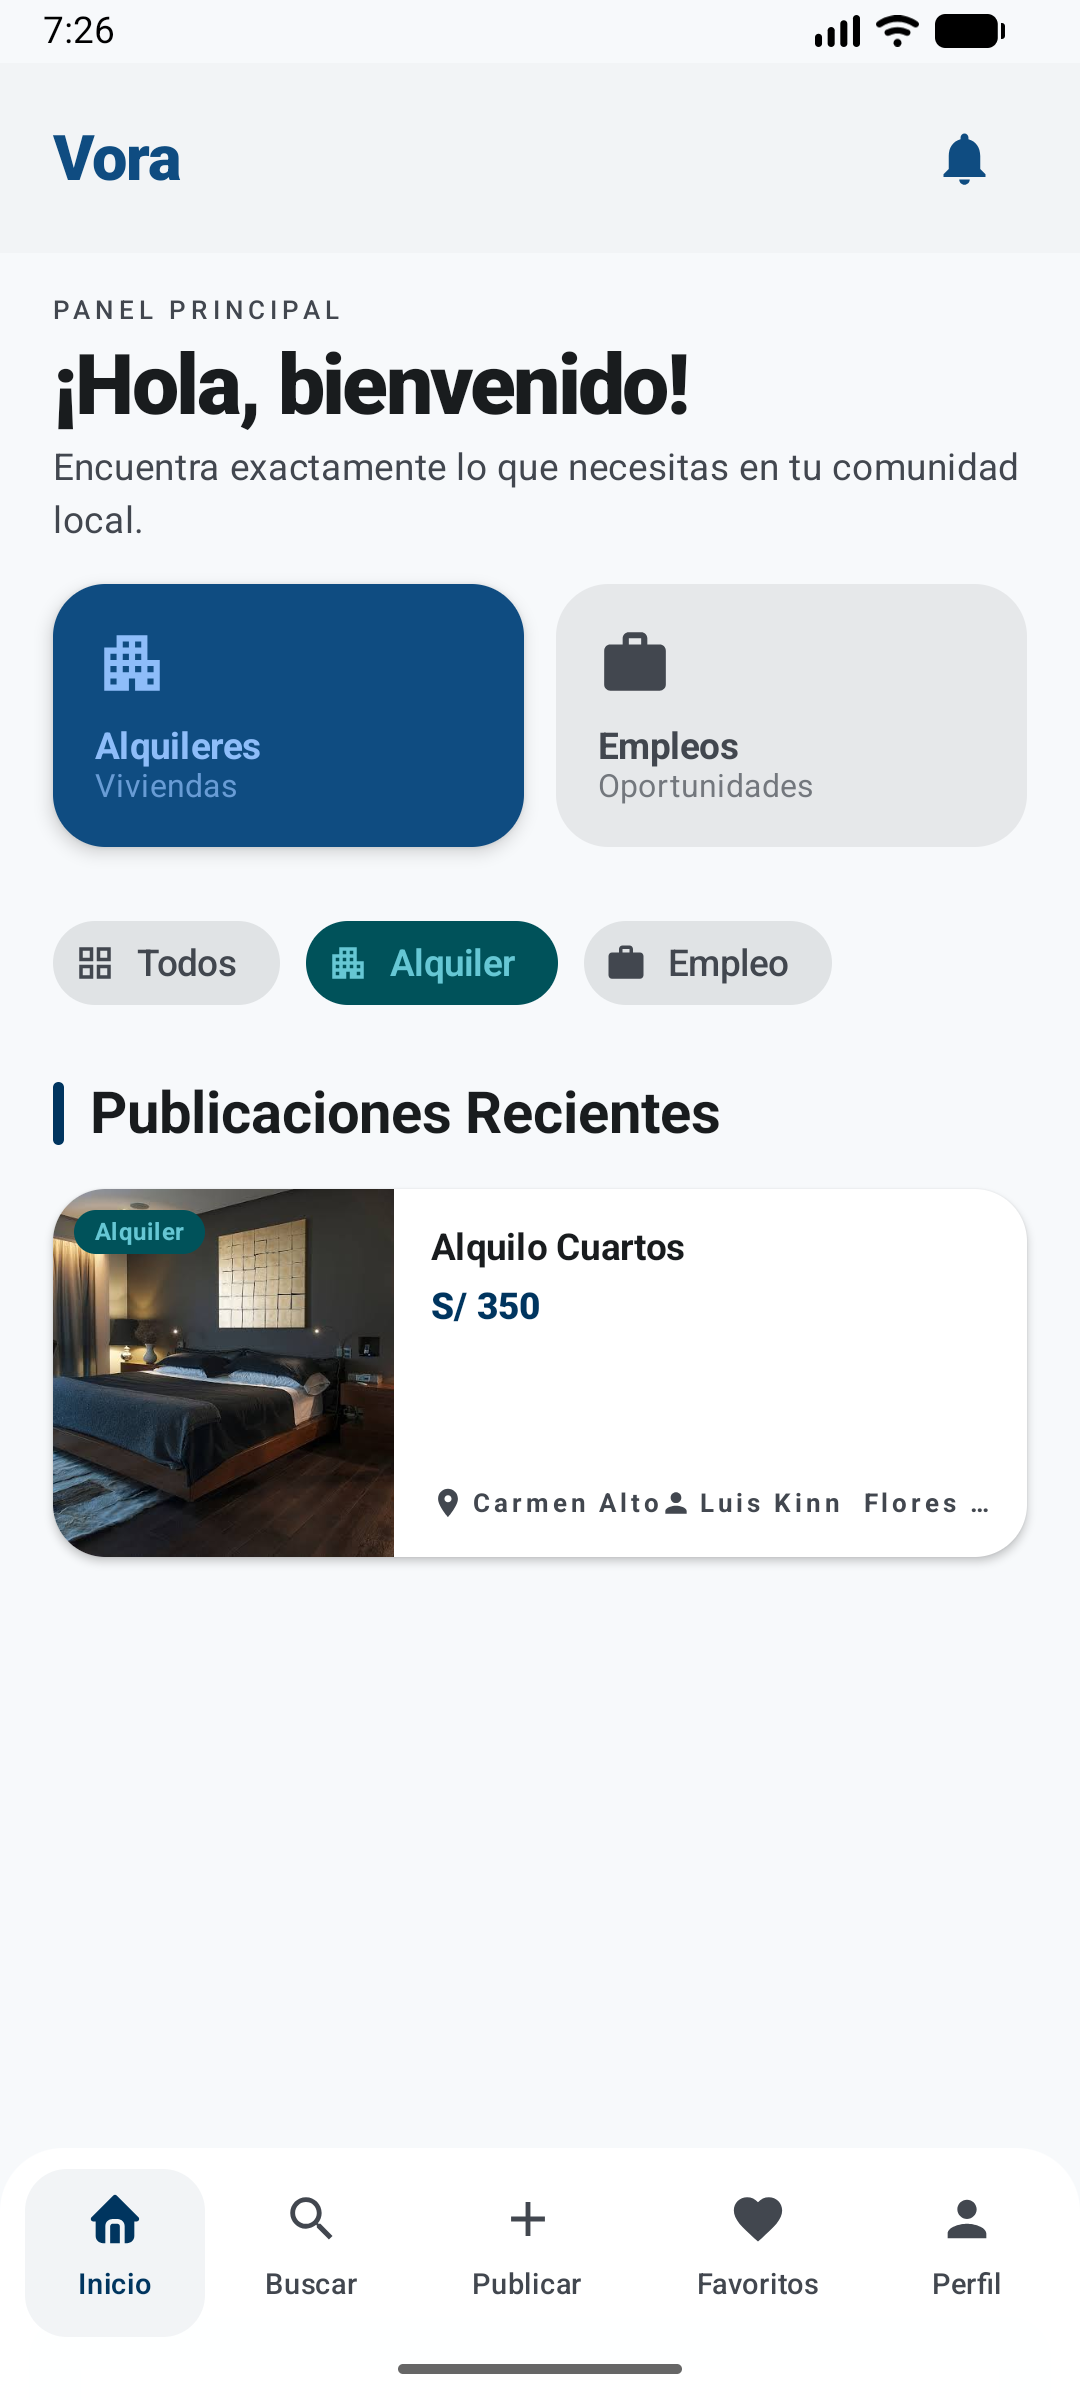
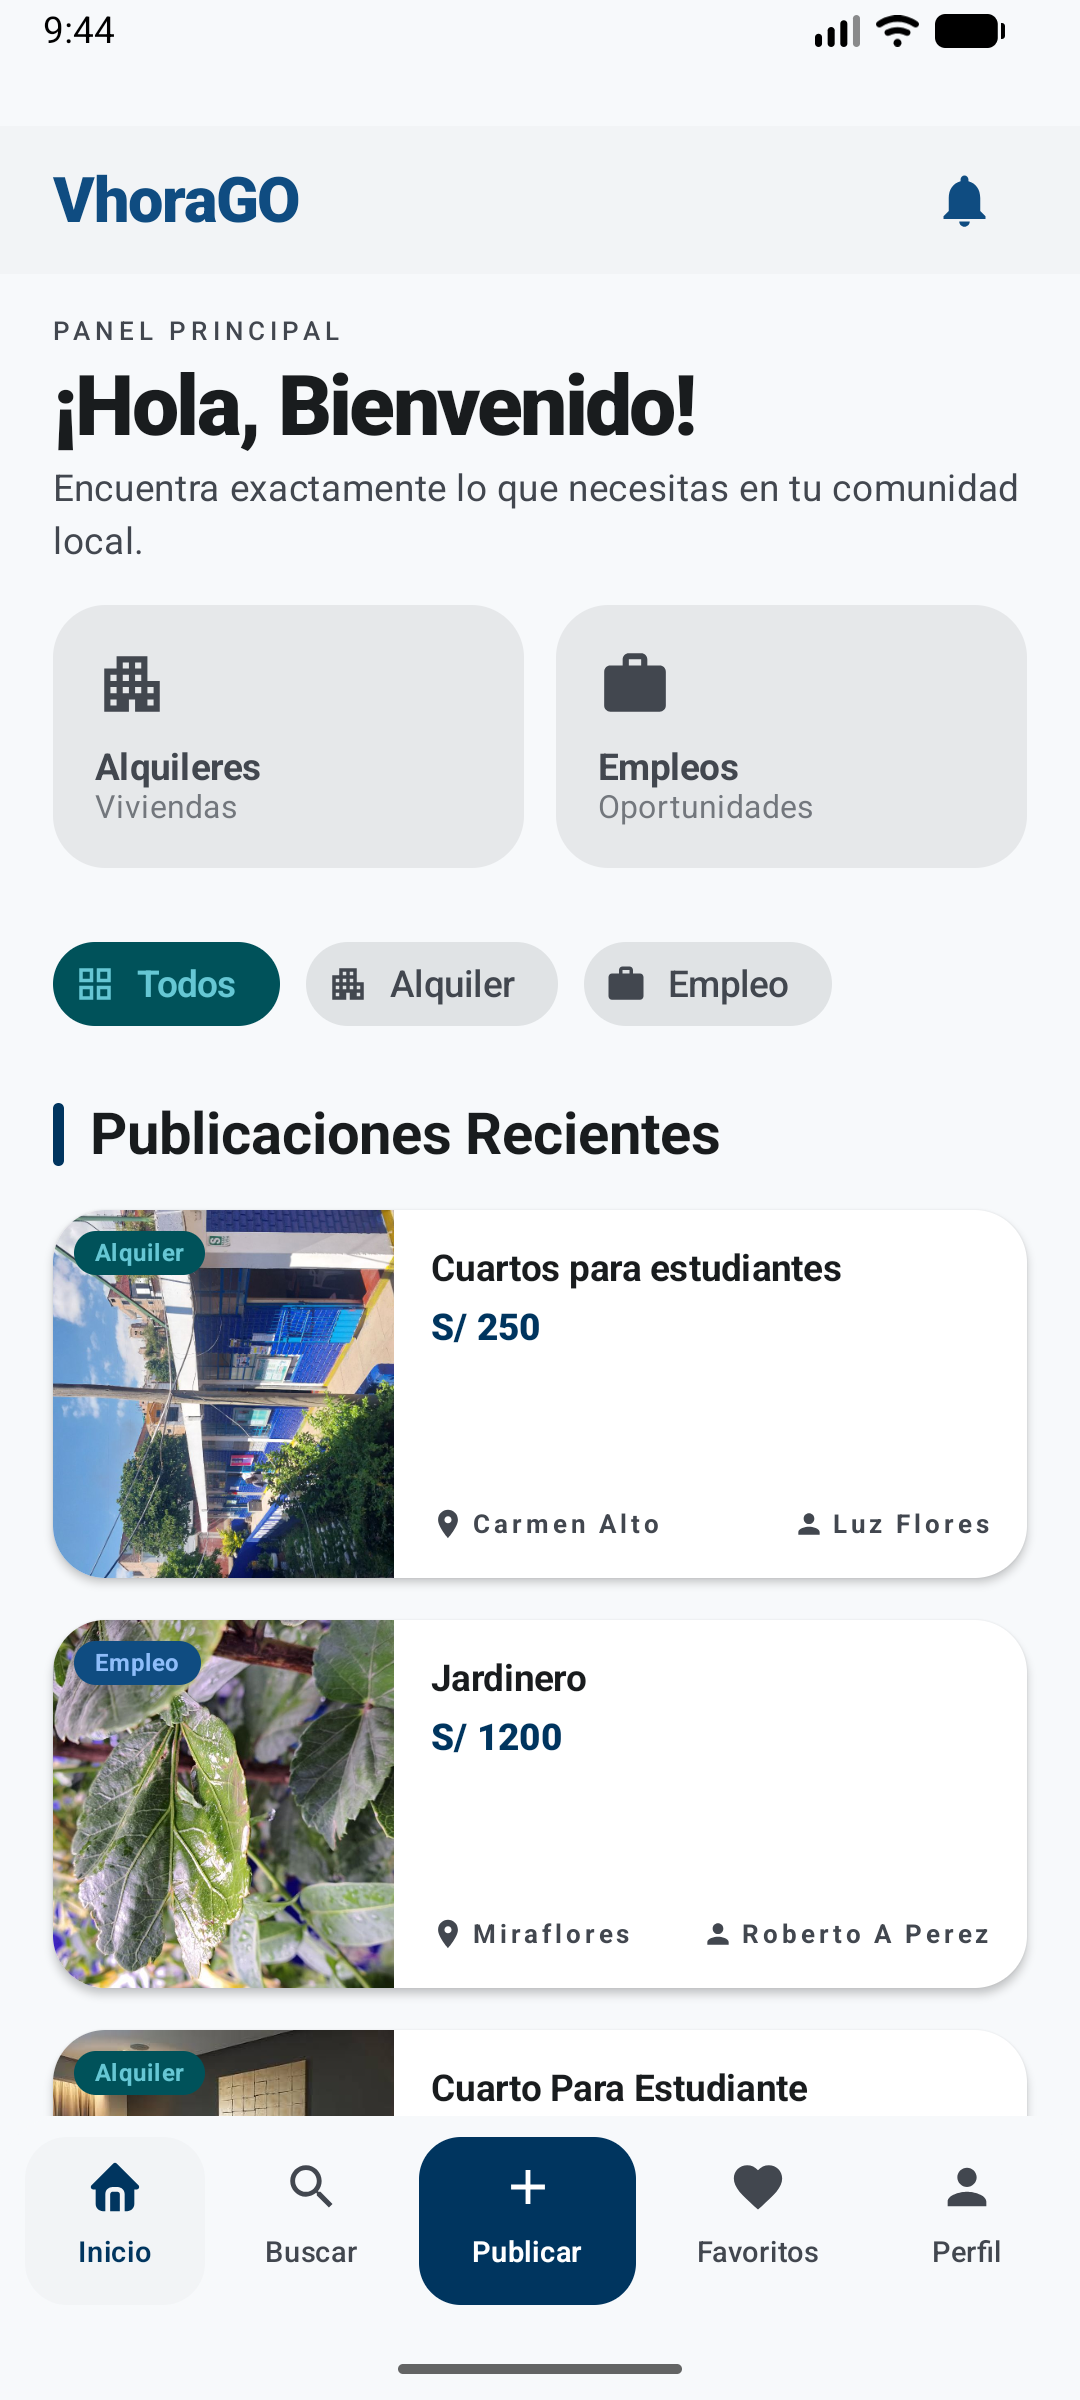
refactor: rename Vora → VhoraGO

diff --git a/src/components/Footer.tsx b/src/components/Footer.tsx
@@ -1,4 +1,4 @@
-import logoVora from '../assets/LogoVora.png';
+import logoVora from '../assets/VhoraGO_Logo.png';
 
 export default function Footer() {
   return (
@@ -7,8 +7,8 @@ export default function Footer() {
         <div className="flex flex-col md:flex-row justify-between items-start md:items-center gap-8 mb-12">
           {/* Logo */}
           <a href="#" className="flex items-center gap-2">
-            <img src={logoVora} alt="Vora" className="w-9 h-9 object-contain" />
-            <span className="font-bold text-xl text-[#0F1A1B]">Vora</span>
+            <img src={logoVora} alt="VhoraGO" className="w-9 h-9 object-contain" />
+            <span className="font-bold text-xl text-[#0F1A1B]">VhoraGO</span>
           </a>
 
           {/* Links */}
@@ -46,7 +46,7 @@ export default function Footer() {
 
         {/* Bottom bar */}
         <div className="flex flex-col md:flex-row justify-between items-center gap-6 pt-8 border-t border-[#D4E0E1] text-sm text-[#708C8E]">
-          <p>© {new Date().getFullYear()} Vora. Todos los derechos reservados.</p>
+          <p>© {new Date().getFullYear()} VhoraGO. Todos los derechos reservados.</p>
           <div className="flex gap-6">
             <a href="#" className="hover:text-[#0F1A1B] transition-colors">
               Política de privacidad

diff --git a/index.html b/index.html
@@ -4,8 +4,8 @@
     <meta charset="UTF-8" />
     <link rel="icon" type="image/svg+xml" href="/favicon.svg" />
     <meta name="viewport" content="width=device-width, initial-scale=1.0" />
-    <title>Vora — Trabajo y vivienda en un solo lugar</title>
-    <meta name="description" content="Vora es la plataforma móvil donde puedes encontrar alquileres accesibles y oportunidades de empleo en tu ciudad. Descárgala gratis." />
+    <title>VhoraGO</title>
+    <meta name="description" content="VhoraGO es la plataforma móvil donde puedes encontrar alquileres accesibles y oportunidades de empleo en tu ciudad. Descárgala gratis." />
     <link rel="preconnect" href="https://fonts.googleapis.com" />
     <link rel="preconnect" href="https://fonts.gstatic.com" crossorigin />
     <link href="https://fonts.googleapis.com/css2?family=Inter:wght@300;400;500;600;700;800&display=swap" rel="stylesheet" />

diff --git a/src/components/Navbar.tsx b/src/components/Navbar.tsx
@@ -1,6 +1,6 @@
 import { useState, useEffect } from 'react';
 import { Menu, X } from 'lucide-react';
-import logoVora from '../assets/LogoVora.png';
+import logoVora from '../assets/VhoraGO_Logo.png';
 import { DOWNLOAD_URL } from '../lib/constants';
 
 export default function Navbar() {
@@ -22,8 +22,8 @@ export default function Navbar() {
       <div className="max-w-7xl mx-auto px-6 lg:px-8 flex items-center justify-between">
         {/* Logo */}
         <a href="#" className="flex items-center gap-2">
-          <img src={logoVora} alt="Vora" className="w-9 h-9 object-contain" />
-          <span className="text-xl font-bold tracking-tight text-[#0F1A1B]">Vora</span>
+          <img src={logoVora} alt="VhoraGO" className="w-9 h-9 object-contain" />
+          <span className="text-xl font-bold tracking-tight text-[#0F1A1B]">VhoraGO</span>
         </a>
 
         {/* Desktop nav */}

diff --git a/src/components/Stats.tsx b/src/components/Stats.tsx
@@ -14,7 +14,7 @@ export default function Stats() {
     <section className="py-10 border-y border-[#D4E0E1] bg-white/50">
       <div className="max-w-7xl mx-auto px-6 lg:px-8">
         <p className="text-center text-sm font-medium text-[#708C8E] mb-8">
-          Miles de personas ya encontraron trabajo o vivienda con Vora
+          Miles de personas ya encontraron trabajo o vivienda con VhoraGO
         </p>
         <div className="flex flex-wrap justify-center gap-12 lg:gap-24">
           {items.map(({ value, label }) => (

diff --git a/src/components/CTA.tsx b/src/components/CTA.tsx
@@ -24,7 +24,7 @@ export default function CTA() {
               ¿Listo para empezar?
             </h2>
             <p className="text-lg md:text-xl text-white/80 mb-10 max-w-xl mx-auto">
-              Descarga Vora y accede a cientos de ofertas de empleo y opciones de alquiler en tu ciudad. Gratis y sin complicaciones.
+              Descarga VhoraGO y accede a cientos de ofertas de empleo y opciones de alquiler en tu ciudad. Gratis y sin complicaciones.
             </p>
             <a
               href={DOWNLOAD_URL}

diff --git a/src/components/Testimonials.tsx b/src/components/Testimonials.tsx
@@ -38,7 +38,7 @@ export default function Testimonials() {
           <h2 className="text-3xl md:text-4xl font-bold text-[#0F1A1B] mb-4">
             Lo que dicen nuestros usuarios
           </h2>
-          <p className="text-lg text-[#708C8E]">Miles de personas ya confían en Vora.</p>
+          <p className="text-lg text-[#708C8E]">Miles de personas ya confían en VhoraGO.</p>
         </motion.div>
 
         <div className="grid md:grid-cols-3 gap-8">

diff --git a/src/components/Features.tsx b/src/components/Features.tsx
@@ -44,7 +44,7 @@ export default function Features() {
             Todo lo que necesitas, en un solo lugar
           </h2>
           <p className="text-lg text-[#708C8E]">
-            Diseñamos Vora para que encontrar trabajo o vivienda sea tan simple como abrir la app.
+            Diseñamos VhoraGO para que encontrar trabajo o vivienda sea tan simple como abrir la app.
           </p>
         </motion.div>
 

diff --git a/src/components/Hero.tsx b/src/components/Hero.tsx
@@ -118,7 +118,7 @@ export default function Hero() {
               <div className="phone-screen">
                 <img
                   src={homeScreen}
-                  alt="Vora App - Pantalla principal"
+                  alt="VhoraGO App - Pantalla principal"
                   className="w-full h-full object-cover object-top"
                 />
               </div>

diff --git a/README.md b/README.md
@@ -1,6 +1,6 @@
-# Vora — Landing Page
+# VhoraGO — Landing Page
 
-Landing page de **Vora**, la plataforma móvil para encontrar alquileres y oportunidades de empleo en tu ciudad.
+Landing page de **VhoraGO**, la plataforma móvil para encontrar alquileres y oportunidades de empleo en tu ciudad.
 
 ## Tecnologías
 
@@ -69,5 +69,5 @@ src/
 
 ## Licencia
 
-© 2026 Vora. Todos los derechos reservados.
+© 2026 VhoraGO. Todos los derechos reservados.
 
